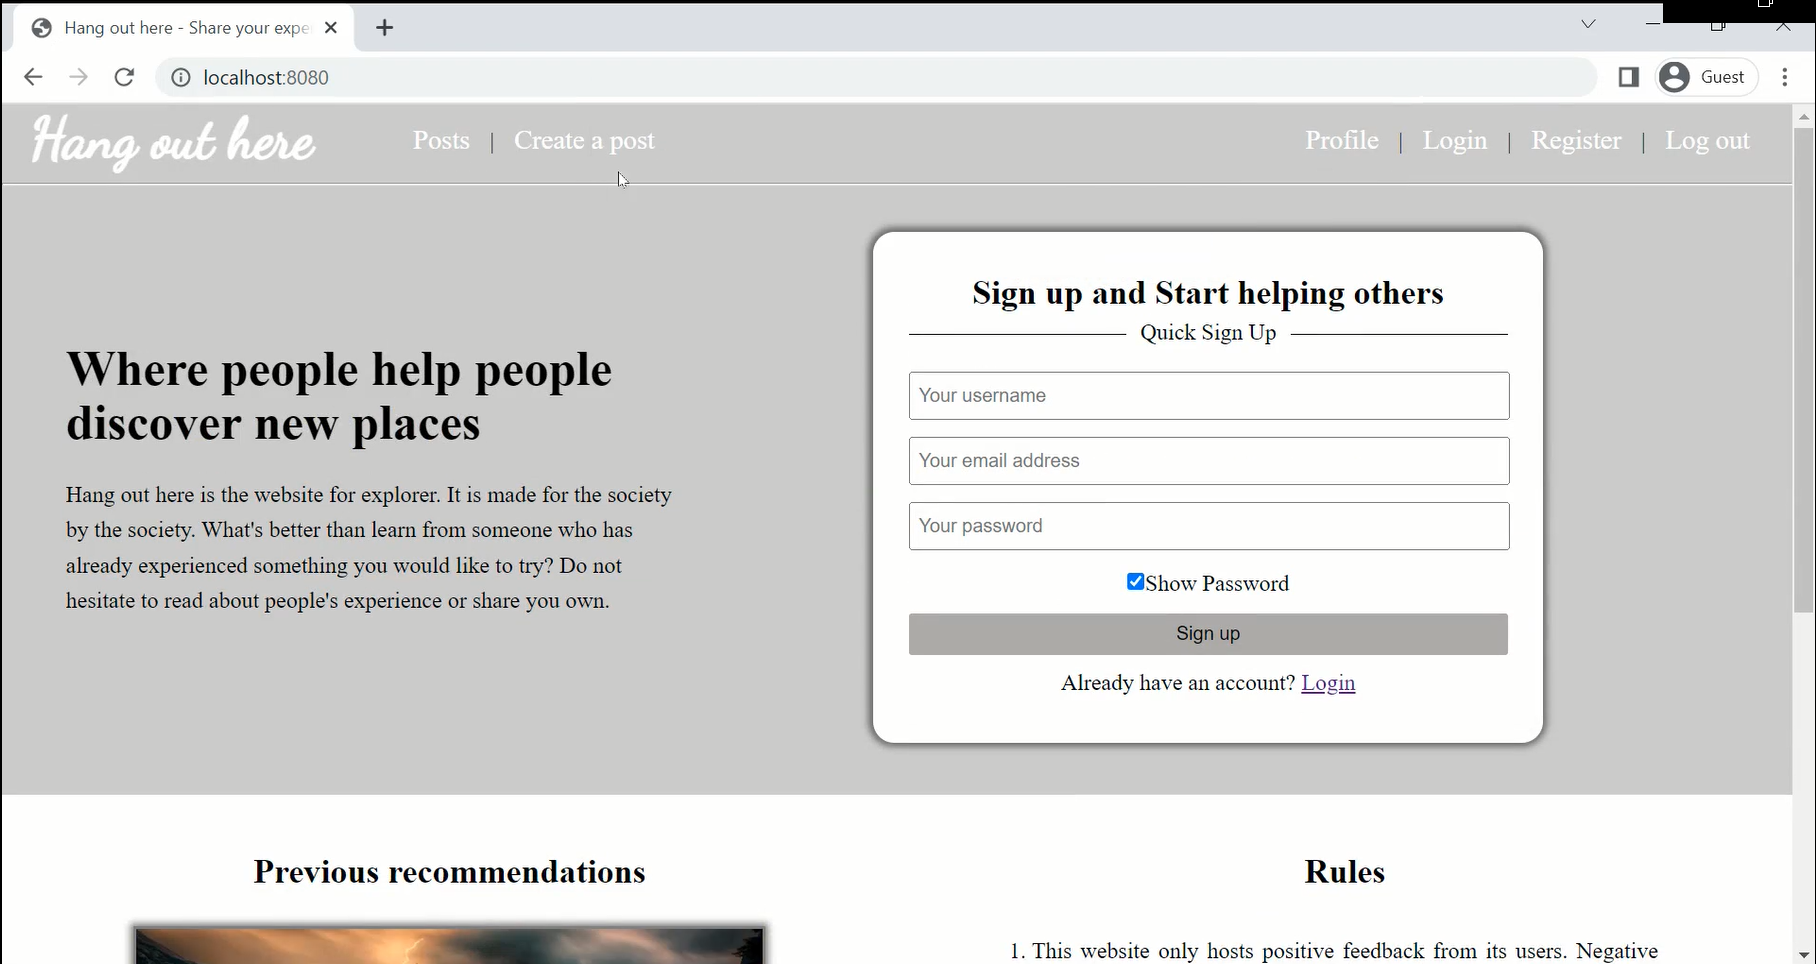
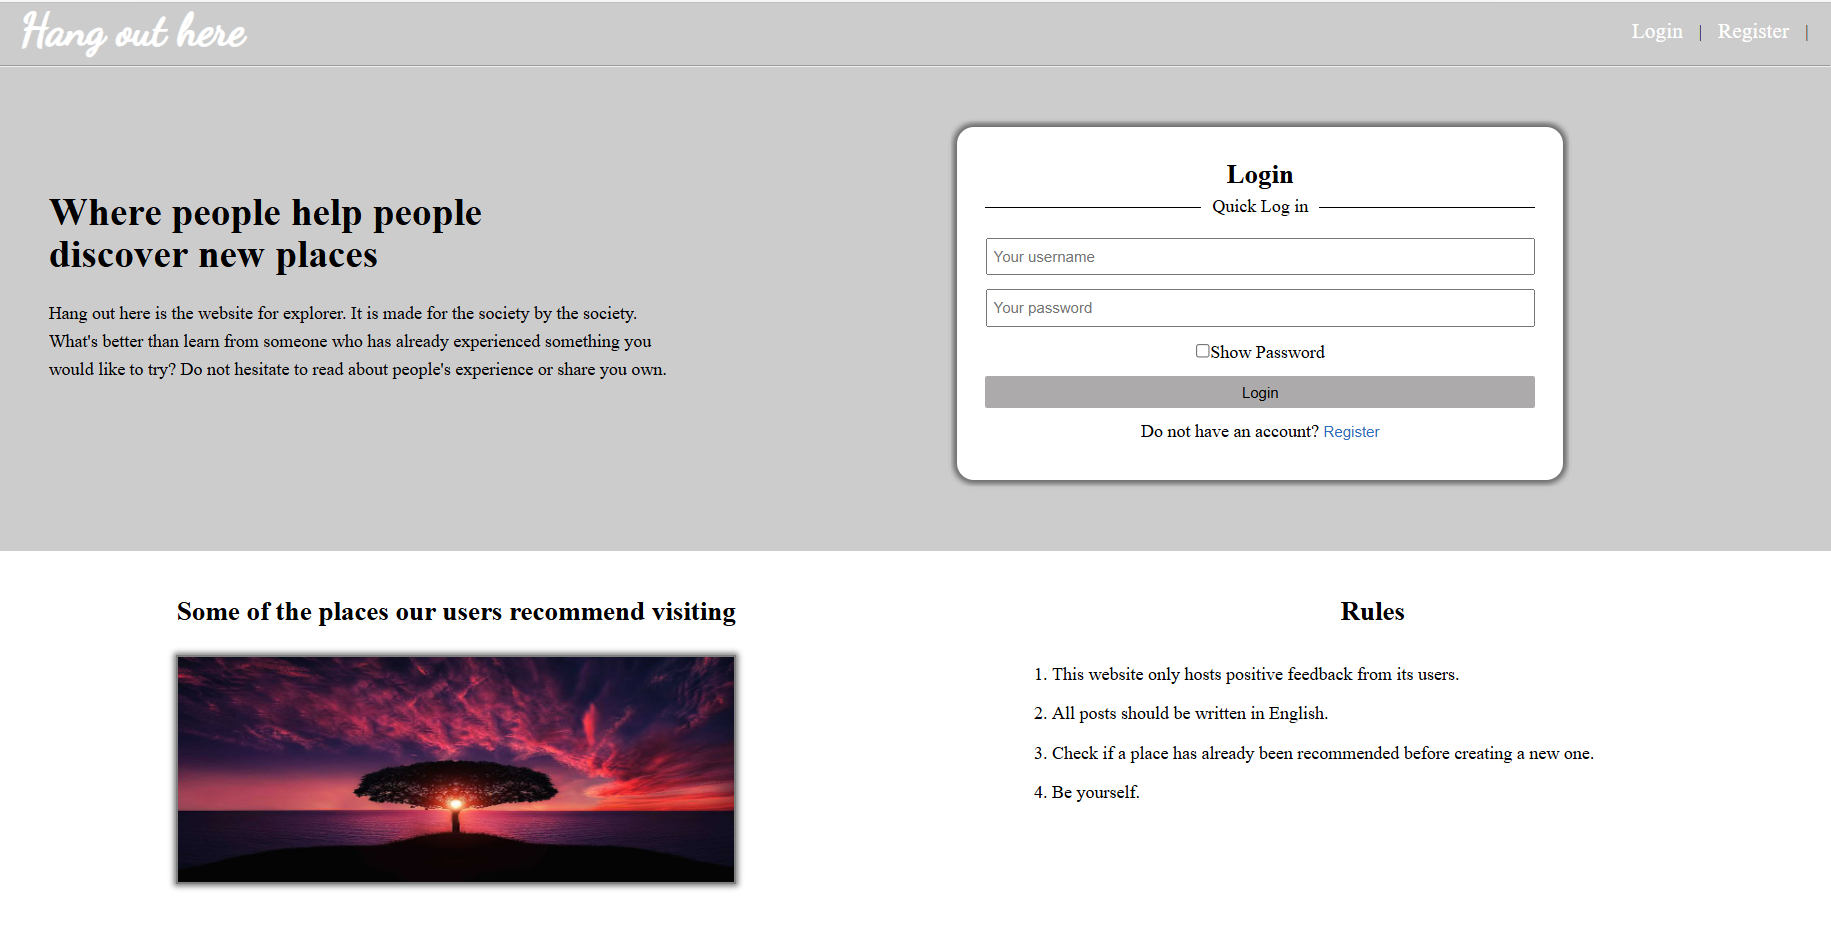
App/ edit project UI, update README

diff --git a/index.html b/index.html
@@ -53,7 +53,7 @@
             <p id="loginFeedback"></p>
 
             <input type="submit" onclick="loginUser()" class="btn login-btn" value="Login">
-            <p>Do not have an account? <a href="" onclick="displaySignup()">Register</a></p>
+            <p>Do not have an account? <button class="pg-link" onclick="displaySignup()">Register</button></p>
         </div>
     </div>
 
@@ -72,7 +72,7 @@
             <p id="signInFeedback"></p>
 
             <input type="submit" class="btn login-btn" value="Sign up" onclick="registerUser()">
-            <p>Already have an account? <a href="">Login</a></p>
+            <p>Already have an account? <button class="pg-link" onclick="displayLogin()">Login</button></p>
         </div>
     </div>
 
@@ -80,21 +80,20 @@
     <div class="section_two" id="section_two">
 
         <div class="reviews-container">
-            <h2>Previous recommendations</h2>
+            <h2>Some of the places our users recommend visiting</h2>
 
             <div class="review">
-
                 <img class="img_review" id="displayed_img" src="https://cdn.pixabay.com/photo/2015/12/01/20/28/road-1072821__340.jpg" alt="Reviews">
-
             </div>
         </div>
         
         <div class="rules_container">
             <h2>Rules</h2>
             <ol class="rules">
-                <li>This website only hosts positive feedback from its users. Negative feedback will be removed.</li>
-                <li>All posts should be written in proper english for other users to understand.</li>
-                <li>Check if a place has already been recommended before creating a new one. Users can use the 'recommend' button</li>
+                <li>This website only hosts positive feedback from its users.</li>
+                <li>All posts should be written in English.</li>
+                <li>Check if a place has already been recommended before creating a new one.</li>
+                <li>Be yourself.</li>
             </ol>
 
         </div>
@@ -112,7 +111,7 @@
     <footer>
         <h2>Hang out here</h2>
         <p>Explore the world</p>
-        <p>haingo-raz &#169; 2022</p>
+        <p>By <a href="https://github.com/haingo-raz" target="_blank">haingo-raz</a> &#169; 2022</p>
     </footer>
     
 </body>

diff --git a/public/js/display.js b/public/js/display.js
@@ -1,17 +1,17 @@
 //Access all the sections
 var loginForm =  document.getElementById("login-container"); //login form
-var signInForm = document.getElementById("signup-form"); //sign up form
+var SignUpForm = document.getElementById("signup-form"); //sign up form
 
 //show the sign up form
 function displaySignup(){
-    signInForm.style.display = "block";
+    SignUpForm.style.display = "block";
     loginForm.style.display = "none";
 }
 
 //show the login form
 function displayLogin(){
     loginForm.style.display = "block";
-    signInForm.style.display = "none";
+    SignUpForm.style.display = "none";
 }
 
 //Load all the posts after the page loads
@@ -49,11 +49,18 @@ function displayAllPosts(jsonPost) {
 
     htmlStr = "";
 
-    //Loop through all posts
+    //Loop through the element of the post array
     for (let i = 0; i < postArray.length; i++) {
 
+        let date = new Date(postArray[i].date);
+        let formattedDate = date.toLocaleDateString('en-US', {
+            year: 'numeric',
+            month: '2-digit',
+            day: '2-digit'
+        });
+
         htmlStr += '<div class="full_post">';     
-        htmlStr += '<p class="post_date_time">' + postArray[i].date + ' and ' + postArray[i].time + '</p>';
+        htmlStr += '<p class="post_date_time"> Posted on: ' + formattedDate  + ' at ' + postArray[i].time + '</p>';
         htmlStr += '<hr>';
         htmlStr += '<p><i class="fa fa-user-circle"></i> ' + postArray[i].author + '</p>';  
         htmlStr += '<h3>' + postArray[i].title + ', ' + postArray[i].country + '</h3>';      
@@ -70,7 +77,7 @@ function displayUserForm(){
     //Generate the form
     htmlStr = "";
 
-    htmlStr += '<h2>Edit email and/or password</h2>';
+    htmlStr += '<h2>View or update your profile details</h2>';
     htmlStr += '   <div class="info_form">';
     htmlStr += '       <div>';
     htmlStr += '           <label>Username</label>';

diff --git a/public/profile.html b/public/profile.html
@@ -38,11 +38,11 @@
     <!--End of section 2 in the landing page-->
 
     <!--Profile picture section-->
-    <div class="profile-pic-section" id="profile-pic-section">
+    <!-- <div class="profile-pic-section" id="profile-pic-section">
         <div>
-            <img id="pictureImg" alt="Profile picture" src="/uploadImg"> <!--Profile picture-->
+            <img id="pictureImg" alt="Profile picture" src="/uploadImg">
         </div>    
-        <div class="profile-upload-section"> <!--File upload option-->
+        <div class="profile-upload-section">
             <h2>Your profile picture</h2>
             <p>You can only add a profile picture once.</p>
             <div>
@@ -51,7 +51,7 @@
                 <div id="profileResponse"></div>
             </div>
         </div>
-    </div>
+    </div> -->
     <!--End of profile picture option-->
 
     <!--User information page with logged in user details-->
@@ -71,7 +71,7 @@
     <footer>
         <h2>Hang out here</h2>
         <p>Explore the world</p>
-        <p>haingo-raz&#169; 2022</p>
+        <p>By <a href="https://github.com/haingo-raz" target="_blank">haingo-raz</a> &#169; 2022</p>
     </footer>
     
 </body>

diff --git a/public/css/index.css b/public/css/index.css
@@ -132,6 +132,17 @@ form input[type="button"]:hover{
     color:#fff;
 }
 
+.pg-link{
+    background:none;
+    border:none;
+    color: rgb(45, 109, 192);
+}
+
+.pg-link:hover{
+    cursor:pointer;
+    color:rgb(155, 154, 154);
+}
+
 /*banner*/
 .banner{
     background:grey;
@@ -187,14 +198,16 @@ form input[type="button"]:hover{
     border:2px solid grey;
     box-shadow:0px 0px 5px 2px grey;
     height:200px;
-    width:70%;
+    width:30vw;
     margin:25px auto;
 }
 
 /*Resize the image on the review*/
 .img_review{
-    width:442px;
-    height:200px;
+    display: block;
+    width: 100%;
+    max-width: 100%;
+    max-height: 100%;
 }
 
 .rules_container{
@@ -219,4 +232,9 @@ footer{
     background:#ccc;
     text-align:center;
     line-height:30px;
+}
+
+footer a{
+    color: black;
+    text-decoration:none;
 }

diff --git a/public/css/posts.css b/public/css/posts.css
@@ -1,24 +1,26 @@
 /*Full post page option*/
 .searchContainer{
-    height:100px;
-    width:60%;
+    width:50%;
     margin:20px auto;
     position: relative;
     height:50px;
+}
+
+.searchContainer form{
+    display: flex;
+    flex-direction: row;
 }
 
 .searchContainer input[type="text"]{ /*Search tool*/
     padding: 5.5px;
     box-shadow:0px 0px 4px 1px rgb(148, 147, 147);
     border: none;
-    width:600px;
-    margin-left:60px;
+    width: 100%;
 }
 
 .fa-search{
     box-shadow:0px 0px 4px 1px rgb(148, 147, 147);
     position:absolute;
-    right:60px;
     top:0px;
     background:grey;
     padding:7px 10px;

diff --git a/public/createPost.html b/public/createPost.html
@@ -70,7 +70,7 @@
     <footer>
         <h2>Hang out here</h2>
         <p>Explore the world</p>
-        <p>haingo-raz &#169; 2022</p>
+        <p>By <a href="https://github.com/haingo-raz" target="_blank">haingo-raz</a> &#169; 2022</p>
     </footer>
     
 </body>

diff --git a/public/posts.html b/public/posts.html
@@ -70,7 +70,7 @@
     <footer>
         <h2>Hang out here</h2>
         <p>Explore the world</p>
-        <p>haingo-raz &#169; 2022</p>
+        <p>By <a href="https://github.com/haingo-raz" target="_blank">haingo-raz</a> &#169; 2022</p>
     </footer>
     
 </body>

diff --git a/README.md b/README.md
@@ -1,37 +1,54 @@
-## Table of Contents
+# Table of Contents
 - [About](#about)
 - [Technology](#technology)
 - [How to run it on your computer?](#run)
 - [UI](#ui)
 
-## About <a name="about"></a>
+# About <a name="about"></a>
 A blog developed with Node.js whereby users can register, login, create a post and update their details.
 
-## Technology <a name="technology"></a>
+# Technology <a name="technology"></a>
 - HTML/CSS
 - Vanilla JS
 - NodeJS ( Express ) 
 - MySQL
 
-## How to run it on your computer? <a name="run"></a>
+# How to run it on your computer? <a name="run"></a>
 
-### Prequequisites 
-- Install XAMPP or a similar tool, which includes MySQL and Apache web server.
+## Prequequisites 
+- Install XAMPP or a similar tool to be able to run MySQL.
 - Install HeidiSQL, a graphical interface to manage MySQL databases or a similar tool.
 - Install Node.js, which includes npm.
 
-### Setting up the database 
-- Open XAMPP and start the Apache and MySQL services.
-- Open HeidiSQL and connect to the MySQL server by entering the host, username, and password.
+## Setting up the database 
+- Open XAMPP and start the MySQL module.
+- Open HeidiSQL and connect to the MySQL server by entering your chosen host, username, and password. In this project the default username 'host' is used and the password is empty.
 - Create a new database. I named mine "Coursework3" in this project.
 - Browse to the project folder and go to database_dump folder, and import posts.sql and users.sql in the created database to populate the database with dummy data.
 
-### Run the server 
+## Run the server 
 - Open a terminal or command prompt and navigate to the project folder.
 - Run `npm install` to install project dependencies.
 - Run `node server.js` to start the server.
 - Open a web browser and go to http://localhost:8080 (or your chosen port) to see the running application.
 
-## UI <a name="ui"></a>
+# UI <a name="ui"></a>
+### Homepage
 ![Node.js blog](https://raw.githubusercontent.com/haingo-raz/Node.js-blog/main/UI/Blog.png)
 
+### Post creation
+![Create-post](https://raw.githubusercontent.com/haingo-raz/Node.js-blog/main/UI/Create-post.png)
+
+### Posts created
+![Posts](https://raw.githubusercontent.com/haingo-raz/Node.js-blog/main/UI/Posts.png)
+
+### Profile page
+![Profile](https://raw.githubusercontent.com/haingo-raz/Node.js-blog/main/UI/Profile.png)
+
+# Future work
+- Allow users to add a profile picture.
+- Allow users to edit their pasts posts.
+- Allow users to delete their pasts posts.
+- Allow users to upvote and downvote a post recommendation.
+- Allow users to direct message another user.
+- Allow users to update their email or password, upong providing their current password.
